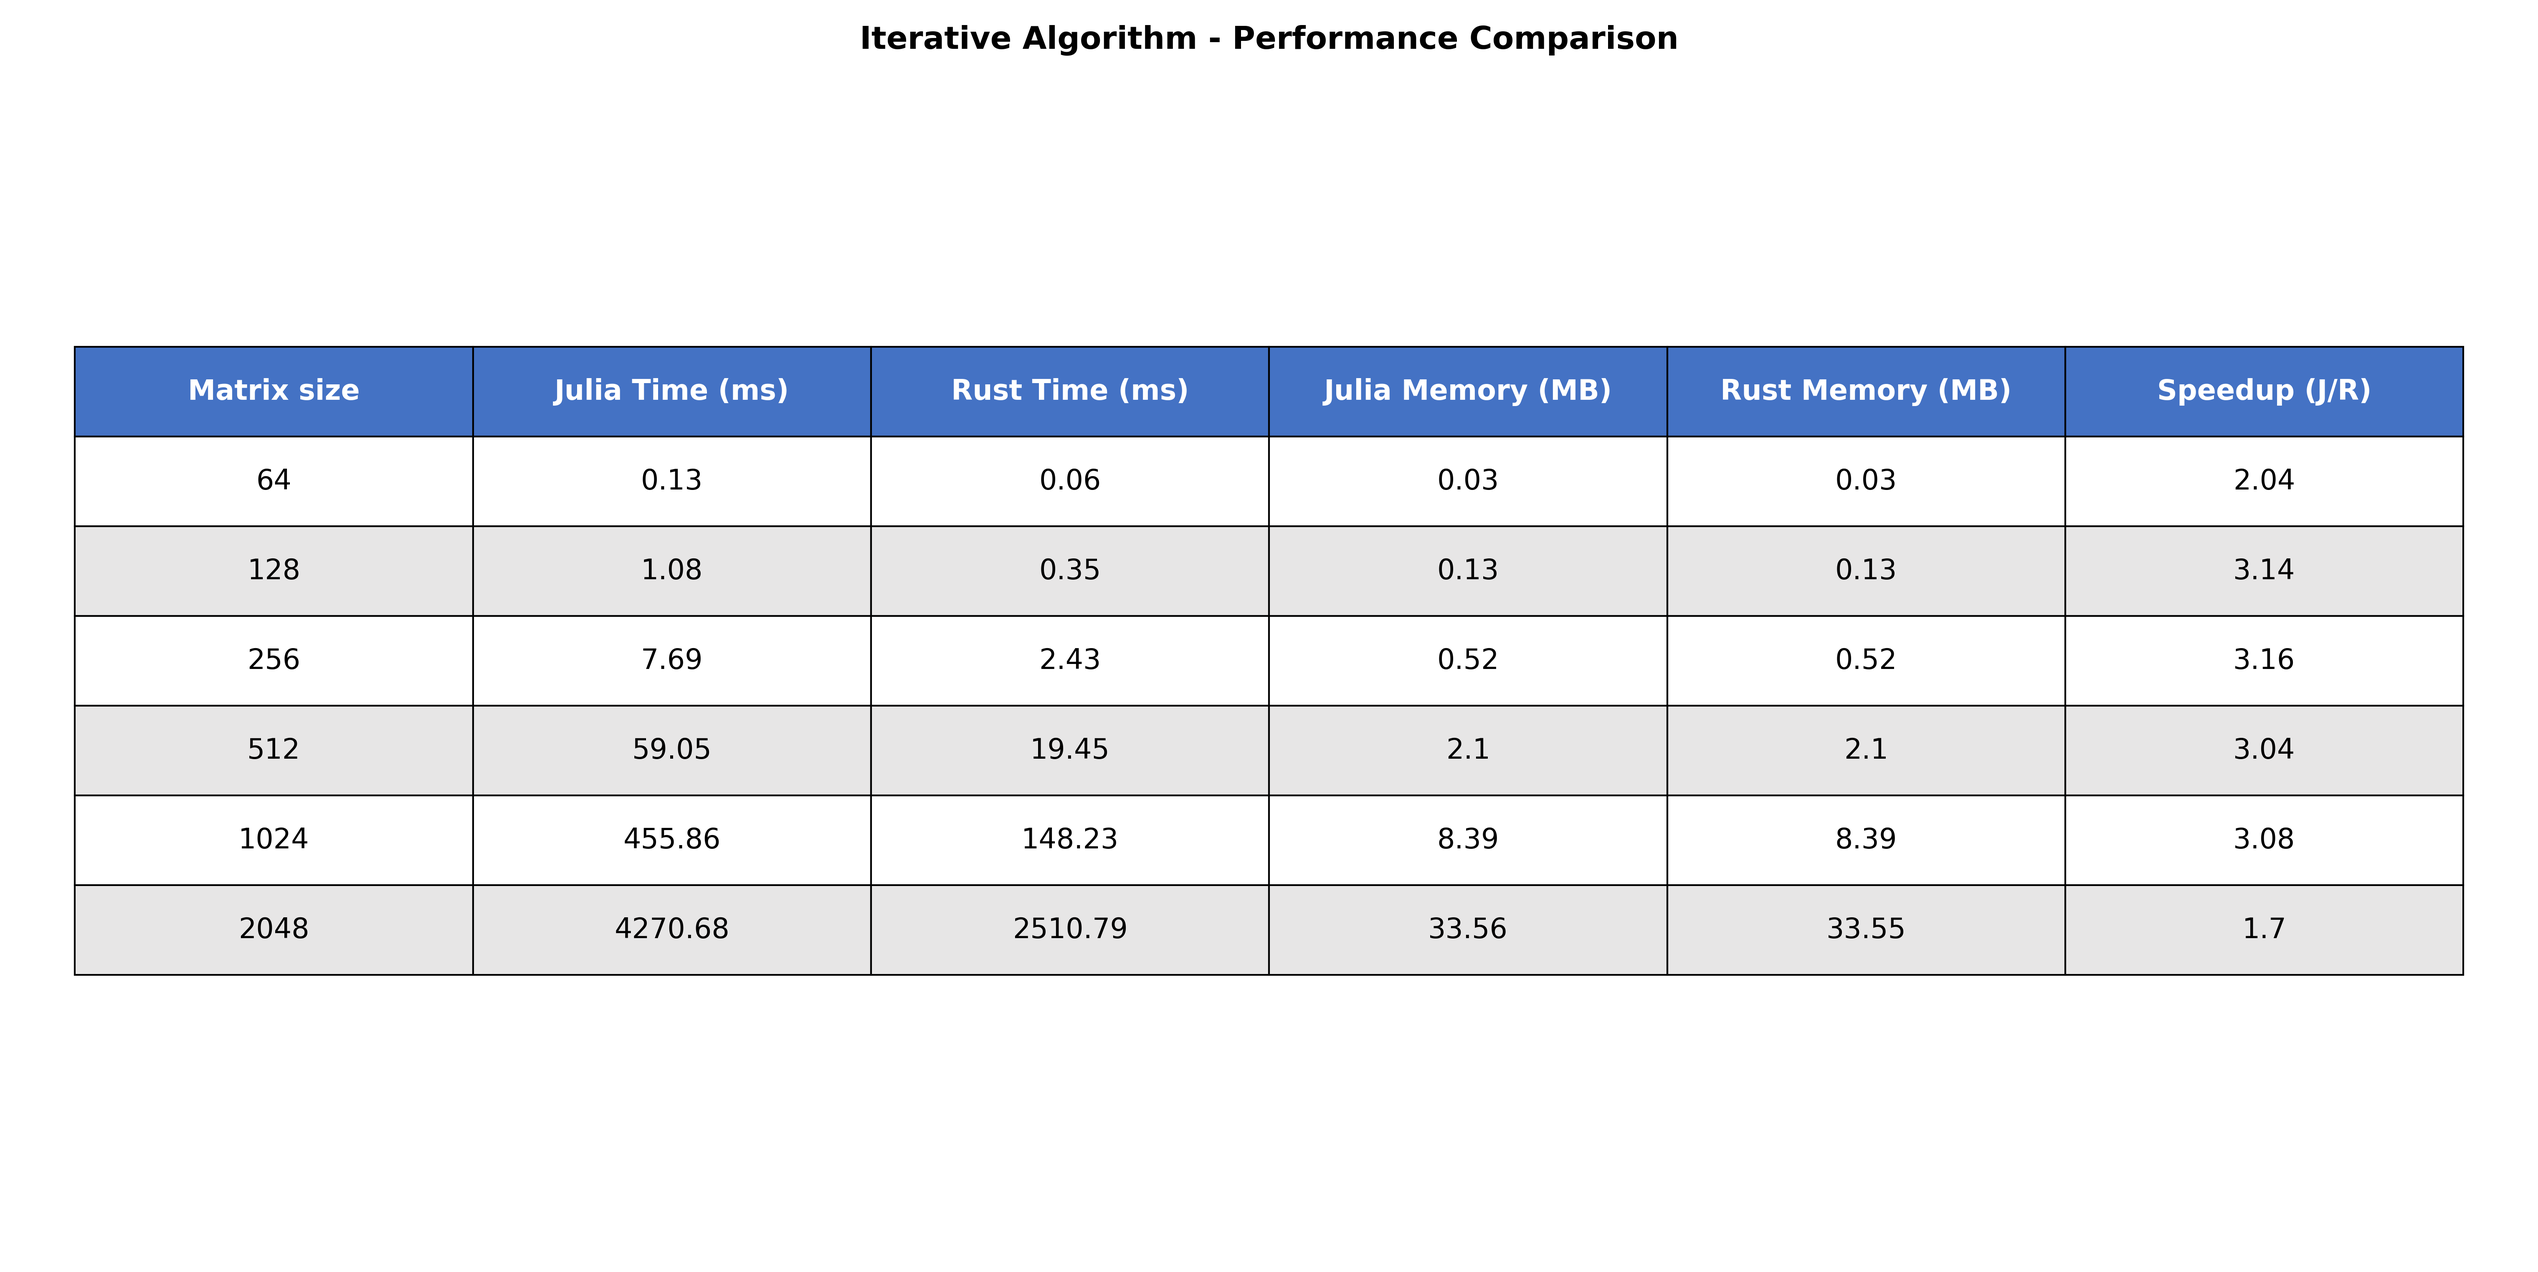
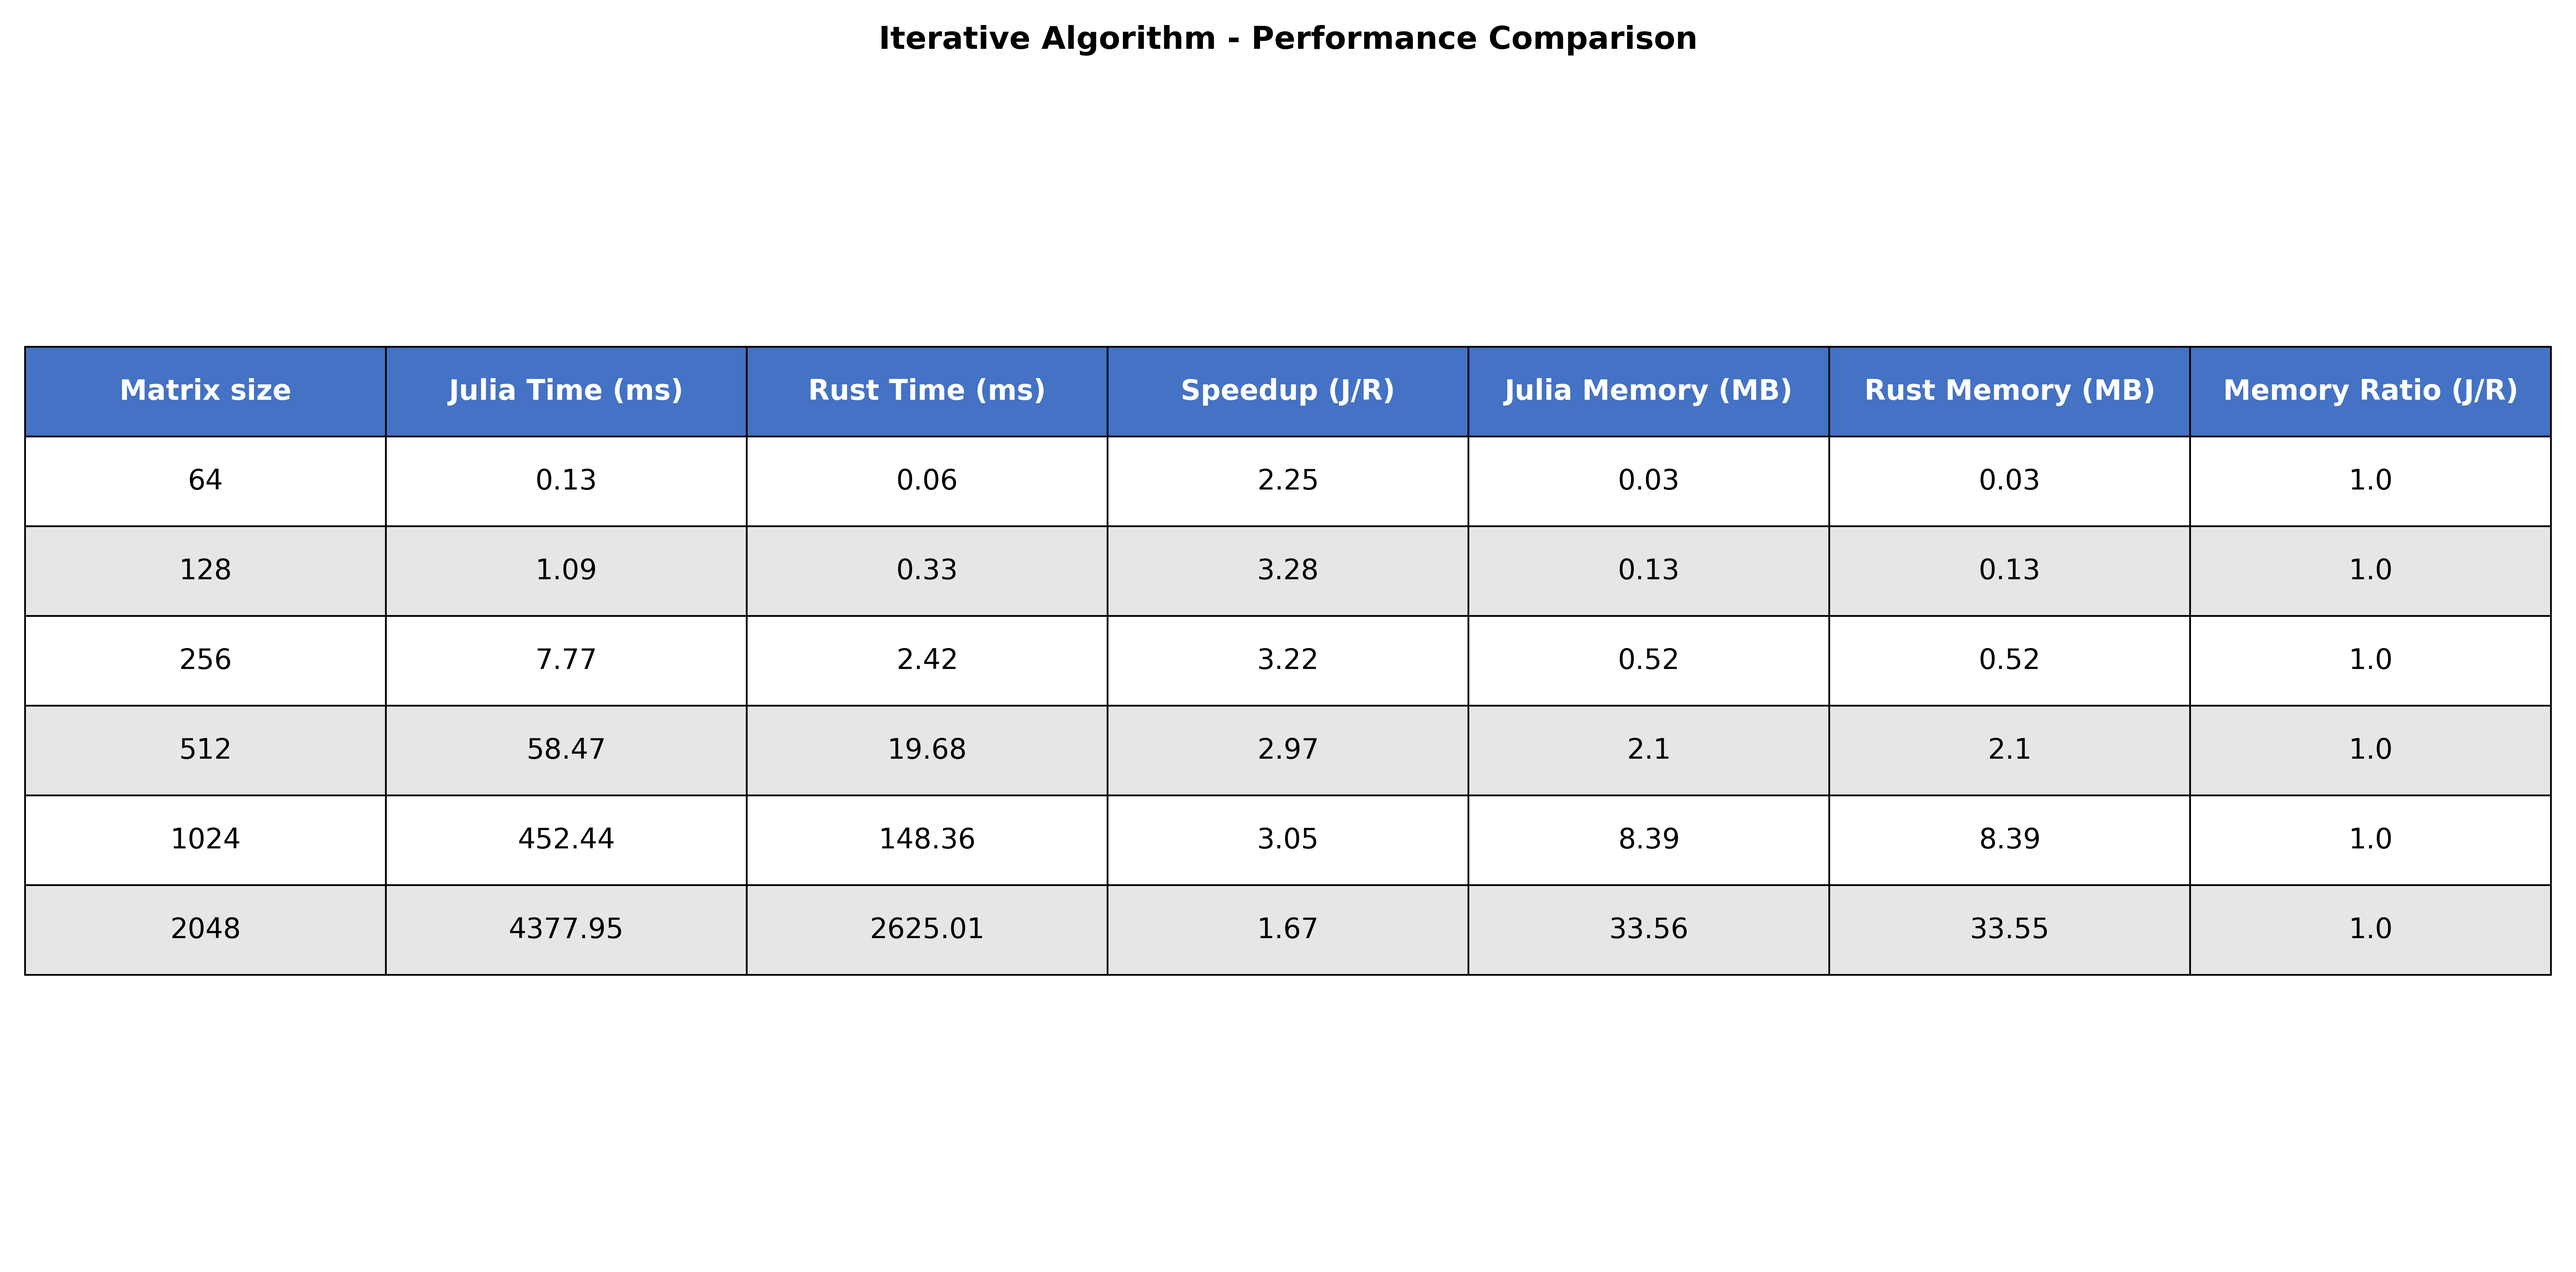
Generates new data and plots

diff --git a/plot/compare_benchmarks.py b/plot/compare_benchmarks.py
@@ -268,14 +268,18 @@ def create_algorithm_comparison_table(algorithm, julia_data, rust_data, output_d
 	# Calculate speedup (Julia time / Rust time)
 	merged['speedup'] = merged['time_ms_julia'] / merged['time_ms_rust']
 
+	# Calculate memory ratio (Julia memory / Rust memory)
+	merged['memory_ratio'] = merged['memory_mb_julia'] / merged['memory_mb_rust']
+
 	# Create table data with proper column names
 	table_data = pd.DataFrame({
 		'Matrix size': merged['size'].astype(int).astype(str),
 		'Julia Time (ms)': merged['time_ms_julia'].round(2),
 		'Rust Time (ms)': merged['time_ms_rust'].round(2),
+		'Speedup (J/R)': merged['speedup'].round(2),
 		'Julia Memory (MB)': merged['memory_mb_julia'].round(2),
 		'Rust Memory (MB)': merged['memory_mb_rust'].round(2),
-		'Speedup (J/R)': merged['speedup'].round(2)
+		'Memory Ratio (J/R)': merged['memory_ratio'].round(2)
 	})
 
 	# Create figure with no axes - larger size
